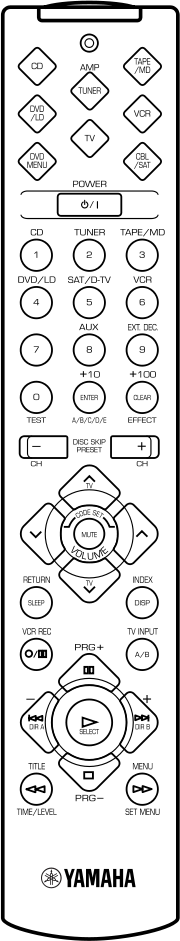
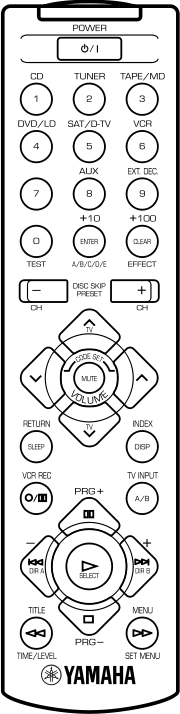
removed unnecessary parts of remote picture and adapted pix-map areas

Changed region(s): [[0.0, 0.0, 1.0, 1.0]]

diff --git a/powersensordaemon/ymhremote.html b/powersensordaemon/ymhremote.html
@@ -67,41 +67,40 @@ document.onkeydown = remoteKeyboard;
 </table>
 
 <map name="ymhremote">
-<area shape ="rect" coords ="57,193,121,216" onClick="sendButton('ymhpower');"  />
+<area shape ="rect" coords ="57,24,121,47" onClick="sendButton('ymhpower');"  />
 
-<area shape ="circle" coords ="36,255,17" onClick="sendButton('ymhcd');" alt="ymhcd" />
-<area shape ="circle" coords ="88,255,17" onClick="sendButton('ymhtuner');" alt="ymhtuner" />
-<area shape ="circle" coords ="142,255,17" onClick="sendButton('ymhtape');" alt="ymhtape" />
-<area shape ="circle" coords ="36,302,17" onClick="sendButton('ymhwdtv');" alt="ymhwdtv" />
-<!--area shape ="circle" coords ="88,302,17" onClick="sendButton('ymhsat);" alt="ymhsat" /-->
-<area shape ="circle" coords ="142,302,17" onClick="sendButton('ymhvcr');" alt="ymhvcr" />
-<!--area shape ="circle" coords ="36,349,17" onClick="sendButton('ymh7);" alt="ymh7" /-->
-<area shape ="circle" coords ="88,349,17" onClick="sendButton('ymhaux');" alt="ymhaux" />
-<area shape ="circle" coords ="142,349,17" onClick="sendButton('ymhextdec');" alt="ymhextdec" />
-<area shape ="circle" coords ="36,397,17" onClick="sendButton('ymhtest');" alt="ymhtest" />
-<area shape ="circle" coords ="88,397,17" onClick="sendButton('ymhtunabcde');" alt="ymhtunabcde" />
-<area shape ="circle" coords ="142,397,17" onClick="sendButton('ymheffect');" alt="ymheffect" />
+<area shape ="circle" coords ="36,86,17" onClick="sendButton('ymhcd');" alt="ymhcd" />
+<area shape ="circle" coords ="88,86,17" onClick="sendButton('ymhtuner');" alt="ymhtuner" />
+<area shape ="circle" coords ="142,86,17" onClick="sendButton('ymhtape');" alt="ymhtape" />
+<area shape ="circle" coords ="36,133,17" onClick="sendButton('ymhwdtv');" alt="ymhwdtv" />
+<!--area shape ="circle" coords ="88,133,17" onClick="sendButton('ymhsat);" alt="ymhsat" /-->
+<area shape ="circle" coords ="142,133,17" onClick="sendButton('ymhvcr');" alt="ymhvcr" />
+<!--area shape ="circle" coords ="36,180,17" onClick="sendButton('ymh7);" alt="ymh7" /-->
+<area shape ="circle" coords ="88,180,17" onClick="sendButton('ymhaux');" alt="ymhaux" />
+<area shape ="circle" coords ="142,180,17" onClick="sendButton('ymhextdec');" alt="ymhextdec" />
+<area shape ="circle" coords ="36,228,17" onClick="sendButton('ymhtest');" alt="ymhtest" />
+<area shape ="circle" coords ="88,228,17" onClick="sendButton('ymhtunabcde');" alt="ymhtunabcde" />
+<area shape ="circle" coords ="142,228,17" onClick="sendButton('ymheffect');" alt="ymheffect" />
 
-<!--area shape ="polygon" coords ="57,493,89,465,119,490,110,502,66,502" onClick="sendButton('ymhtvlolup');" alt="ymhtvlolup" /-->
-<!--area shape ="polygon" coords ="57,575,66,564,110,564,119,575,89,603" onClick="sendButton('ymhtvvoldown');"  alt="ymhtvvoldown"  /-->
-<area shape ="polygon" coords ="19,534,47,503,59,512,59,555,47,565" onClick="sendButton('ymhvoldown');"  alt="ymhvoldown"  />
-<area shape ="polygon" coords ="118,512,129,503,158,534,130,565,118,555" onClick="sendButton('ymhvolup');"  alt="ymhvolup"  />
-<area shape ="circle" coords ="89,534,16" onClick="sendButton('ymhmute');" alt="ymhmute" />
+<!--area shape ="polygon" coords ="57,324,89,296,119,321,110,433,66,433" onClick="sendButton('ymhtvlolup');" alt="ymhtvlolup" /-->
+<!--area shape ="polygon" coords ="57,406,66,395,110,395,119,406,89,433" onClick="sendButton('ymhtvvoldown');"  alt="ymhtvvoldown"  /-->
+<area shape ="polygon" coords ="19,365,47,335,59,343,59,386,47,396" onClick="sendButton('ymhvoldown');"  alt="ymhvoldown"  />
+<area shape ="polygon" coords ="118,343,129,334,158,365,130,396,118,386" onClick="sendButton('ymhvolup');"  alt="ymhvolup"  />
+<area shape ="circle" coords ="89,365,16" onClick="sendButton('ymhmute');" alt="ymhmute" />
 
-<area shape ="circle" coords ="36,602,17" onClick="sendButton('ymhsleep');" alt="ymhsleep" />
-<!--area shape ="circle" coords ="142,602,17" onClick="sendButton('ymhdsp');" alt="ymhdsp" /-->
+<area shape ="circle" coords ="36,433,17" onClick="sendButton('ymhsleep');" alt="ymhsleep" />
+<!--area shape ="circle" coords ="142,433,17" onClick="sendButton('ymhdsp');" alt="ymhdsp" /-->
 
-<!--area shape ="rect" coords ="18,435,67,458" onClick="sendButton('ymhminus');"  /-->
-<area shape ="rect" coords ="111,435,160,458" onClick="sendButton('ymhtunplus');"  />
+<!--area shape ="rect" coords ="18,266,67,289" onClick="sendButton('ymhminus');"  /-->
+<area shape ="rect" coords ="111,266,160,289" onClick="sendButton('ymhtunplus');"  />
 
-<area shape ="polygon" coords ="57,681,89,653,119,678,110,690,66,690" onClick="sendButton('ymhprgup');" alt="ymhprgup" />
-<area shape ="polygon" coords ="57,763,66,752,110,752,119,763,89,791" onClick="sendButton('ymhprgdown');"  alt="ymhprgdown"  />
-<area shape ="polygon" coords ="19,722,47,691,59,700,59,743,47,753" onClick="sendButton('ymhminus');"  alt="ymhminus"  />
-<area shape ="polygon" coords ="118,700,129,691,158,722,130,753,118,743" onClick="sendButton('ymhplus');"  alt="ymhplus"  />
+<area shape ="polygon" coords ="57,512,89,484,119,509,110,512,66,521" onClick="sendButton('ymhprgup');" alt="ymhprgup" />
+<area shape ="polygon" coords ="57,594,66,583,110,583,119,594,89,622" onClick="sendButton('ymhprgdown');"  alt="ymhprgdown"  />
+<area shape ="polygon" coords ="19,553,47,522,59,531,59,574,47,583" onClick="sendButton('ymhminus');"  alt="ymhminus"  />
+<area shape ="polygon" coords ="118,531,129,522,158,553,130,583,118,574" onClick="sendButton('ymhplus');"  alt="ymhplus"  />
 
-<area shape ="circle" coords ="36,789,17" onClick="sendButton('ymhtimelevel');" alt="ymhtimelevel" />
-<area shape ="circle" coords ="142,789,17" onClick="sendButton('ymhmenu');" alt="ymhmenu" />
+<area shape ="circle" coords ="36,620,17" onClick="sendButton('ymhtimelevel');" alt="ymhtimelevel" />
+<area shape ="circle" coords ="142,620,17" onClick="sendButton('ymhmenu');" alt="ymhmenu" />
 <!-- href ="./cgi-bin/switch.cgi" target ="_blank" -->
 </map>
-todo: unnütze teile der Fernbedienung (die Geräte Tasten über "Power" und unten das "Yamaha") wegschneiden und image map x-koordinaten anpassen
 </html>
